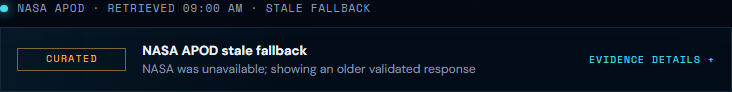
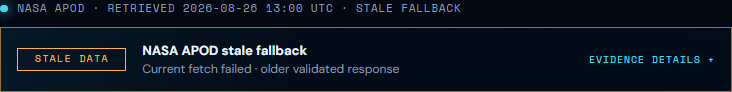
feat: clarify live data reliability states

diff --git a/apps/client/src/components/DataContextPanel.tsx b/apps/client/src/components/DataContextPanel.tsx
@@ -7,6 +7,7 @@ const context: Record<
     sourceUrl: string;
     cadence: string;
     meaning: string;
+    evidence: string;
     limits: string;
   }
 > = {
@@ -17,6 +18,7 @@ const context: Record<
       "APOD is a dated selection, not an observation feed. Its media may have been captured much earlier.",
     meaning:
       "NASA supplies the record. Seven-day media counts are calculated here from available dates.",
+    evidence: "Curated selection; calculated counts.",
     limits:
       "One selection cannot represent sky conditions or event frequency. A missing day can reflect API availability.",
   },
@@ -27,6 +29,7 @@ const context: Record<
       "NeoWs returns catalog predictions for seven days. Values can change as observations improve.",
     meaning:
       "Miss distance and Earth-relative speed describe one approach. Diameter is a range; LD is lunar distance and au is Earth–Sun distance.",
+    evidence: "Observed orbit; modeled diameter; calculated approach.",
     limits:
       "Potentially hazardous is an orbital class, not an impact warning. No single value establishes impact probability.",
   },
@@ -36,7 +39,8 @@ const context: Record<
     cadence:
       "DONKI records can arrive or change after an event. Related records may be added later.",
     meaning:
-      "Flare class and Kp are observations; CME speed is analyzed. Links and timing do not prove causation.",
+      "Flare class and Kp are reported observations; CME speed and arrival estimates are analysis or model outputs. Links and timing do not prove causation.",
+    evidence: "Observed, analyzed, and modeled values.",
     limits:
       "DONKI is preliminary research, not the official U.S. forecast or a safety alert.",
   },
@@ -47,6 +51,7 @@ const context: Record<
       "EPIC repeatedly images sunlit Earth, but the archive is not live video and may lag today.",
     meaning:
       "NASA supplies times and center coordinates. Natural color adjusts visible bands; enhanced color emphasizes land.",
+    evidence: "Observed image and telemetry; processed color.",
     limits:
       "Black edges or gaps can reflect processing, geometry, downlink, or availability. A frame is not a forecast.",
   },
@@ -57,6 +62,7 @@ const context: Record<
       "This archive is not a complete live feed. Records appear when NASA centers update metadata.",
     meaning:
       "Search matches metadata. A supplied creation or publication date may not be the moment depicted.",
+    evidence: "Curated metadata; calculated counts.",
     limits:
       "Counts and order do not measure importance or completeness. Files can be absent or restricted.",
   },
@@ -80,6 +86,10 @@ export function DataContextPanel({ kind }: { kind: DataContextKind }) {
           <div>
             <dt>What is displayed</dt>
             <dd>{item.meaning}</dd>
+          </div>
+          <div>
+            <dt>Evidence labels</dt>
+            <dd>{item.evidence}</dd>
           </div>
           <div>
             <dt>What it cannot show</dt>

diff --git a/apps/client/src/components/ScientificAnalysis.tsx b/apps/client/src/components/ScientificAnalysis.tsx
@@ -53,7 +53,9 @@ export function ApodHistoryAnalysis({ items }: { items: readonly Apod[] }) {
       </div>
       <div className="table-scroll">
         <table>
-          <caption>APOD archive records used in the media-type summary</caption>
+          <caption>
+            Chart-equivalent table: curated APOD records by NASA media type
+          </caption>
           <thead>
             <tr>
               <th scope="col">Date</th>
@@ -123,10 +125,10 @@ export function AsteroidTrendAnalysis({
           </caption>
           <thead>
             <tr>
-              <th>Date</th>
-              <th>Approaches</th>
-              <th>Potentially hazardous classification</th>
-              <th>Closest catalog approach</th>
+              <th scope="col">UTC date</th>
+              <th scope="col">Calculated approaches</th>
+              <th scope="col">NASA/JPL hazard class count</th>
+              <th scope="col">Calculated closest distance (km)</th>
             </tr>
           </thead>
           <tbody>
@@ -192,15 +194,16 @@ export function DonkiComparison({
       <div className="table-scroll">
         <table>
           <caption>
-            Observed and modeled fields published for selected DONKI events
+            Chart-equivalent table of published counts and observed or modeled
+            DONKI fields
           </caption>
           <thead>
             <tr>
-              <th>Event</th>
-              <th>Type</th>
-              <th>Start UTC</th>
-              <th>Location</th>
-              <th>Published measurements</th>
+              <th scope="col">Event</th>
+              <th scope="col">Reported type</th>
+              <th scope="col">Start (UTC)</th>
+              <th scope="col">Reported location</th>
+              <th scope="col">Published measurements</th>
             </tr>
           </thead>
           <tbody>
@@ -261,13 +264,16 @@ export function EarthTimelineAnalysis({
       </div>
       <div className="table-scroll">
         <table>
-          <caption>EPIC timestamps and image-center coordinates</caption>
+          <caption>
+            Timeline-equivalent table of observed EPIC times and center
+            coordinates
+          </caption>
           <thead>
             <tr>
-              <th>Sequence</th>
-              <th>Captured UTC</th>
-              <th>Center latitude</th>
-              <th>Center longitude</th>
+              <th scope="col">Sequence</th>
+              <th scope="col">Captured (UTC)</th>
+              <th scope="col">Observed center latitude (°)</th>
+              <th scope="col">Observed center longitude (°)</th>
             </tr>
           </thead>
           <tbody>

diff --git a/apps/client/src/components/DataStatus.tsx b/apps/client/src/components/DataStatus.tsx
@@ -13,37 +13,36 @@ export function DataStatus({
   data?: unknown;
 }) {
   if (updatedAt === 0) return null;
-  const retrievedAt = new Date(updatedAt).toLocaleTimeString([], {
-    hour: "2-digit",
-    minute: "2-digit",
-  });
+  const retrievedAt = new Date(updatedAt)
+    .toISOString()
+    .slice(0, 16)
+    .replace("T", " ");
   const stale = isStaleResponse(data);
   return (
     <div className="data-status">
       <p role="status">
         <span aria-hidden="true" />
         <span>
-          {source} · Retrieved {retrievedAt}
+          {source} · Retrieved {retrievedAt} UTC
           {refreshing ? " · Refreshing" : ""}
           {stale ? " · Stale fallback" : ""}
         </span>
       </p>
       <ProvenancePanel
-        kind={stale ? "curated" : "live"}
+        kind={stale ? "stale" : "live"}
         title={
           stale ? `${source} stale fallback` : `Retrieved through ${source}`
         }
         summary={
           stale
-            ? "NASA was unavailable; showing an older validated response"
-            : "Open data origin and freshness guidance"
+            ? "Current fetch failed · older validated response"
+            : "Validated NASA response"
         }
         details={[
-          `Mission Control retrieved this response at ${retrievedAt}; this is not necessarily the observation time.`,
-          "Dates and timestamps inside each record describe the observation or event when NASA supplies them.",
+          `Retrieved ${retrievedAt} UTC; record times describe observations or publication when supplied.`,
           stale
-            ? "The server used an older validated response because current NASA data was unavailable."
-            : "The Express server validates and normalizes the NASA response; a short-lived cache can reduce repeat requests.",
+            ? "A retryable NASA failure caused this fallback. It is not current conditions."
+            : "The server validated and normalized this response.",
         ]}
       />
     </div>

diff --git a/apps/client/src/components/DataStatus.test.tsx b/apps/client/src/components/DataStatus.test.tsx
@@ -20,9 +20,23 @@ describe("DataStatus", () => {
     );
     expect(screen.getByRole("status")).toHaveTextContent("Stale fallback");
     expect(
-      screen.getByText(
-        /NASA was unavailable; showing an older validated response/,
-      ),
+      screen.getByText(/Current fetch failed · older validated response/),
     ).toBeVisible();
+    expect(screen.getByText("STALE DATA")).toBeVisible();
+    expect(screen.getByRole("status")).toHaveTextContent("UTC");
+  });
+
+  it("states a deterministic UTC retrieval timestamp", () => {
+    render(
+      <DataStatus
+        source="NASA DONKI"
+        updatedAt={Date.UTC(2026, 7, 26, 14, 30)}
+        refreshing={false}
+      />,
+    );
+    expect(screen.getByRole("status")).toHaveTextContent(
+      "2026-08-26 14:30 UTC",
+    );
+    expect(screen.getByText(/Validated NASA response/)).toBeVisible();
   });
 });

diff --git a/tests/e2e/visual-consistency.spec.ts b/tests/e2e/visual-consistency.spec.ts
@@ -181,7 +181,7 @@ test("keeps empty and stale-degraded guidance aligned and actionable", async ({
   const staleState = page.locator(".data-status");
   await expect(staleState).toContainText("Stale fallback");
   await expect(staleState).toContainText(
-    "NASA was unavailable; showing an older validated response",
+    "Current fetch failed · older validated response",
   );
   await expectNoHorizontalOverflow(page);
   await captureElement(

diff --git a/apps/client/src/components/ScientificAnalysis.test.tsx b/apps/client/src/components/ScientificAnalysis.test.tsx
@@ -77,10 +77,10 @@ describe("ScientificAnalysis", () => {
       </>,
     );
     expect(
-      screen.getByRole("table", { name: /Observed and modeled fields/ }),
+      screen.getByRole("table", { name: /observed or modeled DONKI fields/ }),
     ).toBeVisible();
     expect(
-      screen.getByRole("table", { name: /EPIC timestamps/ }),
+      screen.getByRole("table", { name: /observed EPIC times/ }),
     ).toBeVisible();
   });
 });

diff --git a/apps/client/src/components/DataContextPanel.test.tsx b/apps/client/src/components/DataContextPanel.test.tsx
@@ -14,6 +14,7 @@ describe("DataContextPanel", () => {
     expect(screen.getByText(title)).toBeVisible();
     expect(screen.getByText("Freshness")).toBeVisible();
     expect(screen.getByText("What is displayed")).toBeVisible();
+    expect(screen.getByText("Evidence labels")).toBeVisible();
     expect(screen.getByText("What it cannot show")).toBeVisible();
     expect(screen.getByRole("link")).toHaveAttribute(
       "href",

diff --git a/apps/client/src/components/ProvenancePanel.tsx b/apps/client/src/components/ProvenancePanel.tsx
@@ -1,9 +1,10 @@
-export type ProvenanceKind = "live" | "curated" | "calculated";
+export type ProvenanceKind = "live" | "curated" | "calculated" | "stale";
 
 const kindLabels: Record<ProvenanceKind, string> = {
   live: "NASA API",
   curated: "CURATED",
   calculated: "CALCULATED",
+  stale: "STALE DATA",
 };
 
 export function ProvenancePanel({

diff --git a/apps/client/src/styles/global.css b/apps/client/src/styles/global.css
@@ -6166,6 +6166,15 @@ p {
   color: #a9baff;
 }
 
+.provenance-panel--stale {
+  border-color: color-mix(in srgb, var(--amber) 55%, var(--line));
+}
+
+.provenance-panel--stale .provenance-panel__kind {
+  color: var(--amber);
+  border-color: currentColor;
+}
+
 .provenance-panel summary > span:nth-child(2) {
   display: grid;
   gap: 0.16rem;

diff --git a/docs/live-data-clarity-phase-4.md b/docs/live-data-clarity-phase-4.md
@@ -1,0 +1,41 @@
+# Live-data clarity and reliability experience — Phase 4
+
+Reviewed: 2026-08-26
+Owner: frontend and reliability maintainer
+
+## Shared interpretation contract
+
+Every normalized live-data surface now gives the retrieval timestamp in UTC, states that retrieval time may differ from observation or publication time, and provides a source-specific update expectation. Current responses retain the NASA API label. A fallback is instead labeled **STALE DATA**, uses a restrained amber treatment, explains that the current retrieval failed, and tells readers to treat the record as historical context rather than current conditions.
+
+The interpretation panels use the same vocabulary throughout:
+
+- **Observed** — an instrument observation or reported measurement.
+- **Modeled** — an analysis or prediction produced from inputs and assumptions.
+- **Calculated** — a transparent transformation performed by Mission Control, such as a count, comparison, or unit conversion.
+- **Curated** — a selected or described archive record whose wording or metadata is editorial.
+
+APOD is a dated curated selection, not a sky-condition feed. NeoWs combines observed orbit information with modeled diameter ranges and calculated close-approach predictions. DONKI can mix observations, analyst interpretations, and model outputs and is not an operational forecast. EPIC supplies observed imagery and telemetry with processed natural/enhanced color. NASA Media search returns curated archive metadata rather than a complete live record of NASA activity.
+
+## Accessible comparisons
+
+Each analysis graphic has a semantic table immediately beside it. Captions now identify the table as the chart or timeline equivalent; headers identify UTC, units, and evidence origin. Visual labels and accessible descriptions use the same population and measure: APOD media records, calculated asteroid approach counts, DONKI published-measurement counts, and EPIC frame chronology.
+
+## Reliability decision
+
+The retained production artifact contains one run with two successful observations per route. It records zero route failures, stale fallbacks, validation failures, or alerts. Cold-route p95 values range from 51 ms for NASA Media to 1.65 s for NeoWs, below the existing 5 s alert threshold. This sample proves the collector works but cannot support a representative baseline, so the 5% failure, 10% stale, 5 s latency, and 20-sample cache diagnostic thresholds remain unchanged.
+
+The trend aggregator now recognizes the exact `x-data-status: stale-fallback` value even when `x-cache` does not independently report `STALE`. A regression test protects that production header contract. Thresholds must be reviewed after the first complete 30-day window, or earlier when repeated false positives or missed incidents provide evidence.
+
+## Official assumptions reviewed
+
+- [NASA Open APIs](https://api.nasa.gov/) documents APOD dated records and NeoWs asteroid search.
+- [NASA CCMC DONKI](https://kauai.ccmc.gsfc.nasa.gov/DONKI/) identifies its mixed observation, analysis, and model information as preliminary experimental research rather than the official U.S. forecast.
+- [NASA EPIC API](https://epic.gsfc.nasa.gov/about/api) documents most-recent-available and dated imagery plus image metadata.
+- [NASA EPIC imagery guide](https://epic.gsfc.nasa.gov/api) explains adjusted natural color and processed enhanced color.
+- [NASA Image and Video Library API](https://images.nasa.gov/docs/images.nasa.gov_api_docs.pdf) defines archive search and asset metadata.
+
+No endpoint, credential requirement, or normalized server contract changed in this phase.
+
+## Verification
+
+Component tests cover UTC formatting, source expectations, evidence guidance, and stale announcements. Reliability tests cover the exact stale header value. Existing accessibility and browser suites protect status semantics, stale/degraded screenshots, and matching live-data journeys. Release preflight enforces schemas, resilience, content health, build, asset budgets, and offline exclusions.

diff --git a/README.md b/README.md
@@ -47,6 +47,7 @@ An original, responsive command-center experience for exploring NASA imagery and
 - Explicit retry metadata, no-store failure responses, and transient-failure recovery coverage
 - URL-backed Asteroid Comparison Lab for miss distance, upper diameter estimate, and Earth-relative velocity
 - Plain-language DONKI measurement guide separating flare class, modeled CME speed, and observed Kp activity
+- Consistent UTC retrieval timestamps, source-specific update expectations, evidence classes, and prominent stale-fallback guidance across live-data routes
 - Nine guided discovery paths connecting live instruments, NASA media searches, and source-checked mission history
 - Contextual mission-record actions that continue into related observations and guided investigations
 - Saveable guided paths with organized Flight Log collection counts and section shortcuts
@@ -303,6 +304,7 @@ The monthly `Mission status review` workflow checks official source availability
 54. **Complete — Visual consistency and responsive polish phase 1:** standardized shared spacing, typography rhythm, filters, evidence/source panels, tables, and async states; added deterministic visual baselines and overflow checks at 320px, tablet, laptop, large-display, and 200%-zoom-equivalent widths.
 55. **Complete — Mission and story presentation phase 2:** added consistent in-page evidence paths, clearer objective/result/status hierarchy, standardized evidence captions and definitions, concise provenance, guided-learning handoffs, bounded reading measures, and responsive mission/story regression evidence.
 56. **Complete — Trivia depth and learning quality phase 3:** expanded each existing trivia topic from 16 to 24 reviewed questions with stronger specialist and commander coverage, balanced answers, browser-local unseen-question priority, richer scientific explanations, and strengthened learning objectives, reflections, and completion synthesis.
+57. **Complete — Live-data clarity and reliability experience phase 4:** standardized UTC freshness and update expectations, separated observed, modeled, calculated, and curated evidence, strengthened chart/table equivalence, made stale fallback unmistakable, and corrected durable stale-status aggregation while retaining thresholds until the sample is sufficient.
 
 ## Screenshots
 

diff --git a/CHANGELOG.md b/CHANGELOG.md
@@ -6,6 +6,7 @@ All notable changes are documented here. This project follows [Semantic Versioni
 
 ### Added
 
+- Add shared UTC freshness, update-expectation, evidence-class, and stale-fallback guidance across APOD, NeoWs, DONKI, EPIC, and NASA Media experiences.
 - Expand the four existing trivia topics to 96 reviewed questions and use bounded browser-local history to prioritize unseen questions on repeat runs.
 - Add accessible mission and story evidence paths plus direct handoffs from reviewed content into the matching guided-learning tracks.
 - Add deterministic visual baselines and overflow checks across mobile, tablet, laptop, large-display, and 200%-zoom-equivalent layouts.
@@ -27,6 +28,8 @@ All notable changes are documented here. This project follows [Semantic Versioni
 
 ### Changed
 
+- Make accessible analysis tables describe their matching chart or timeline, units, timestamps, and evidence origin more explicitly.
+- Count the production `stale-fallback` status directly in reliability trends while retaining current alert and cache thresholds pending a representative rolling sample.
 - Strengthen guided-learning objectives, intermediate trivia handoffs, source-aware reflection prompts, and evidence-specific completion summaries.
 - Standardize mission objectives, curated results, status notes, story evidence captions, definitions, sources, and long-form reading measures.
 - Standardize section rhythm, page headings, filters, source/evidence panels, tables, and async states with shared responsive design tokens.
